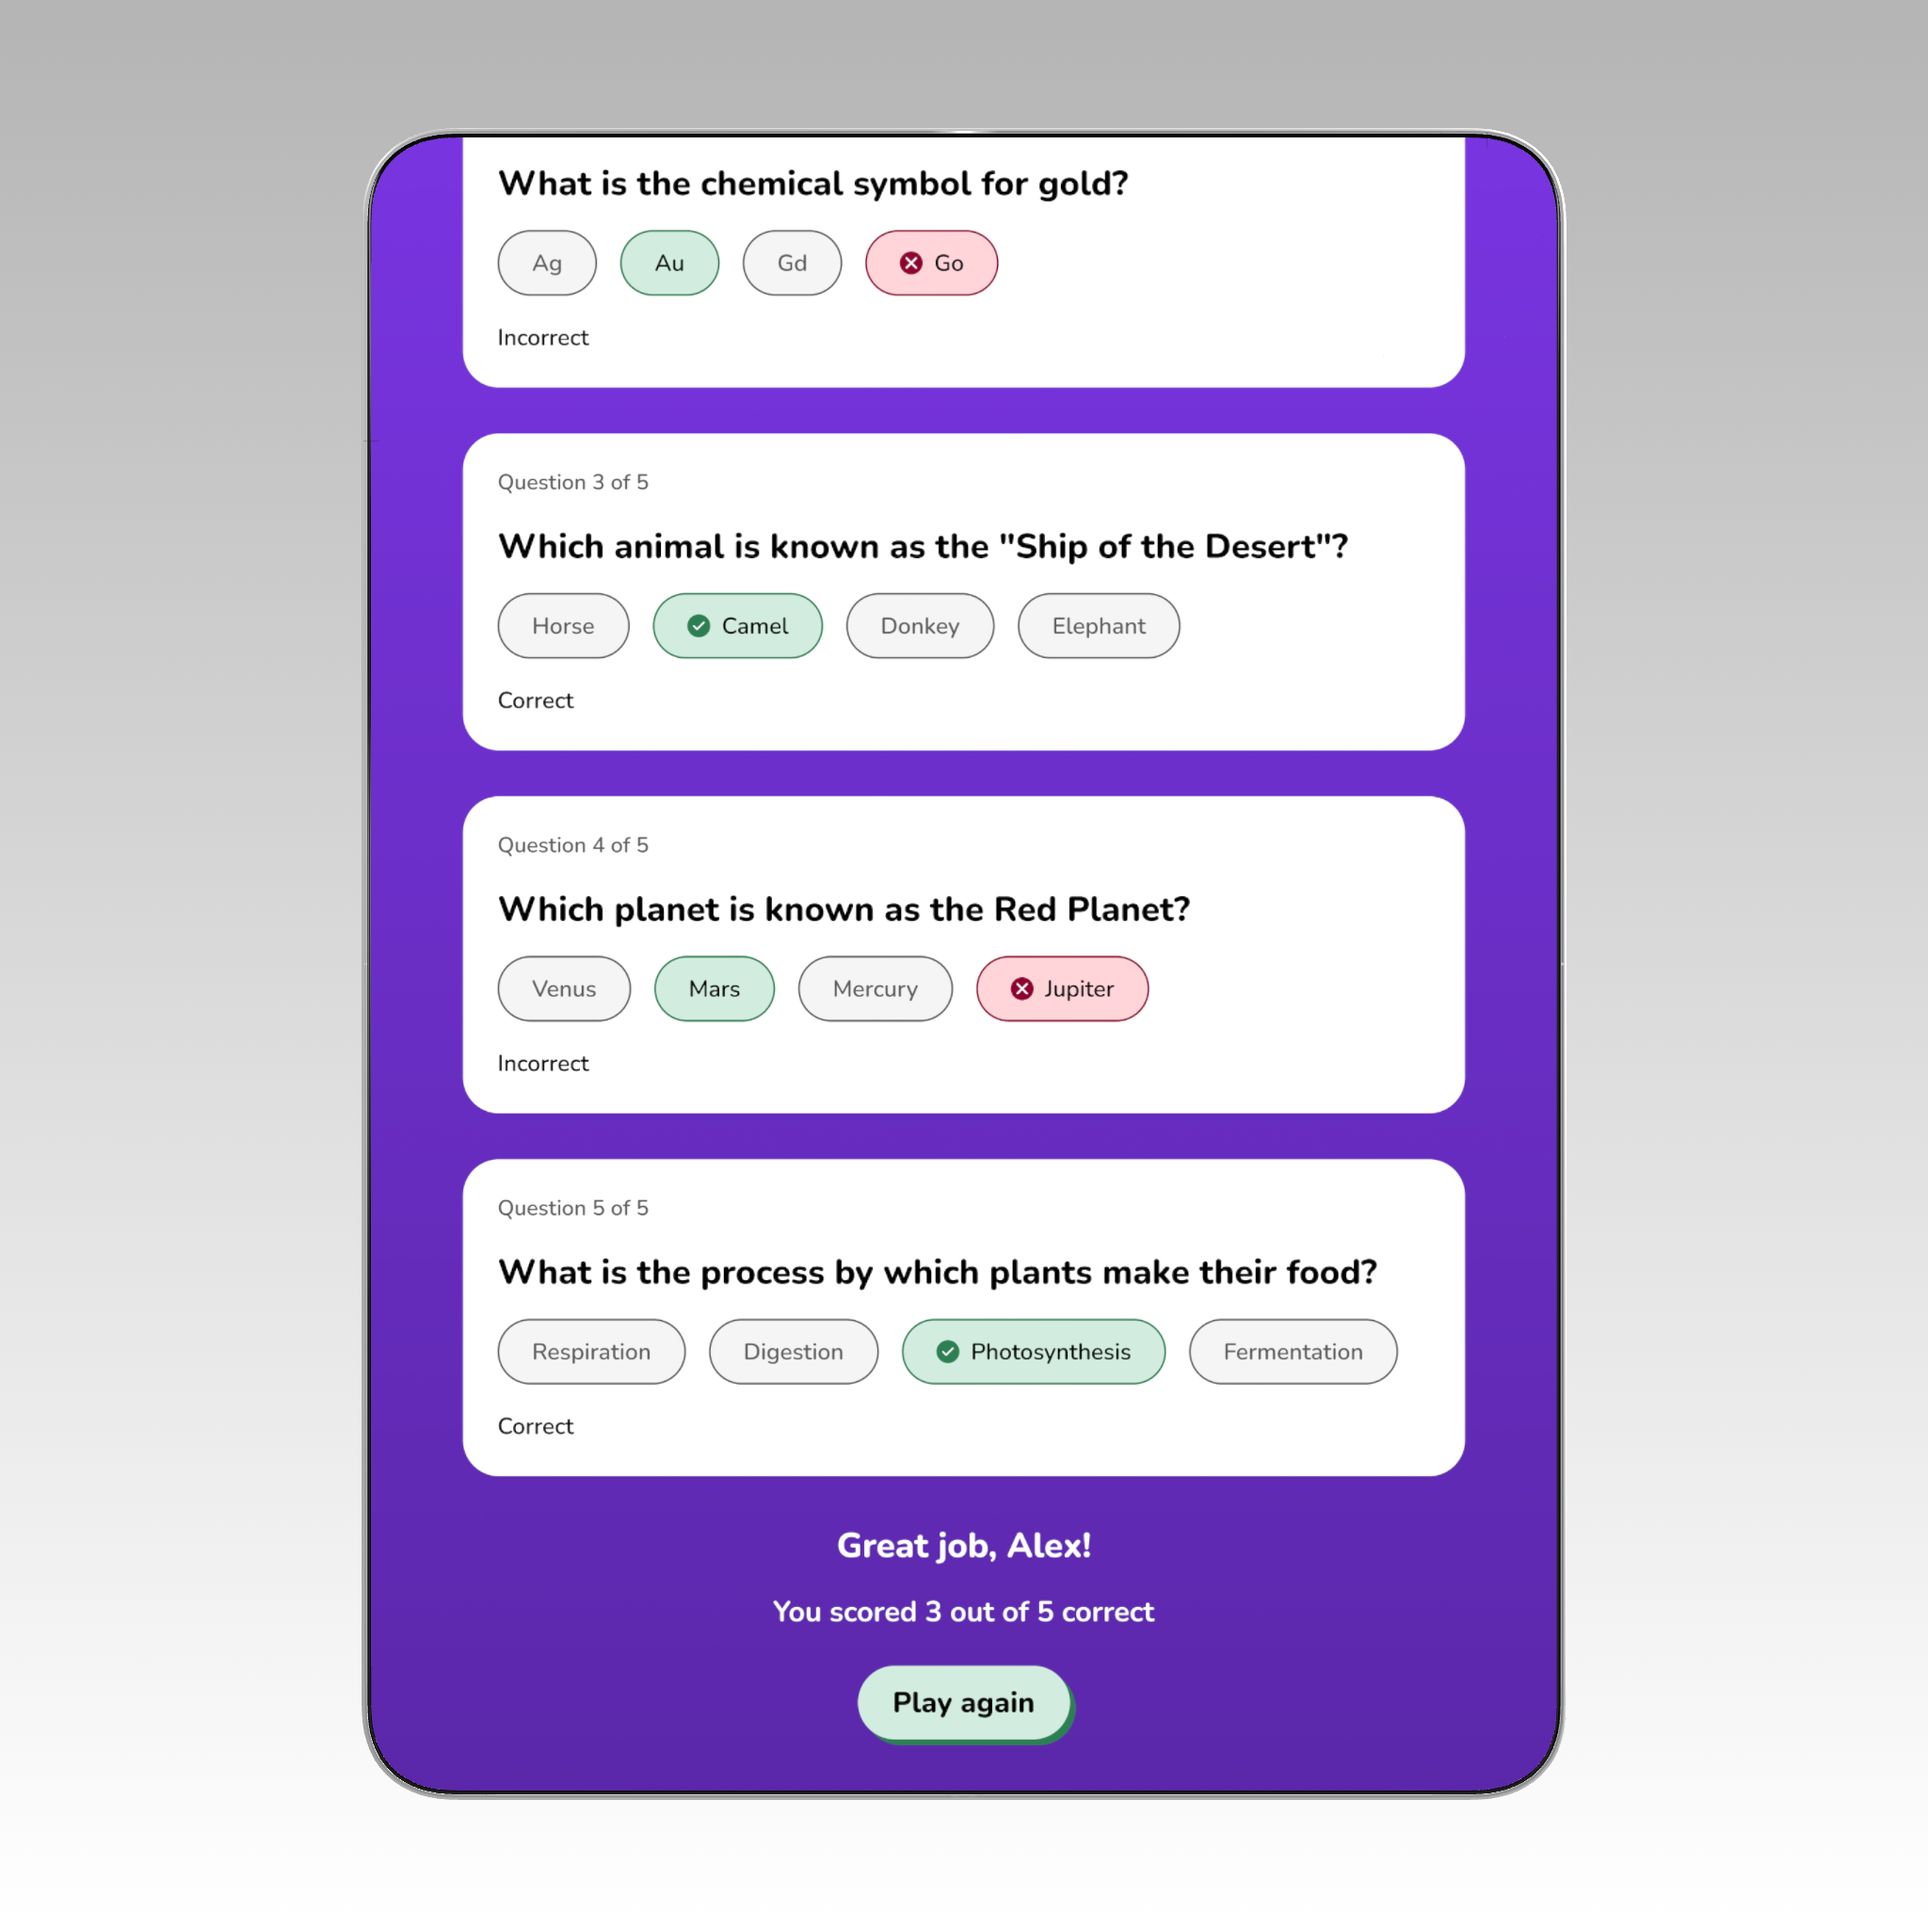
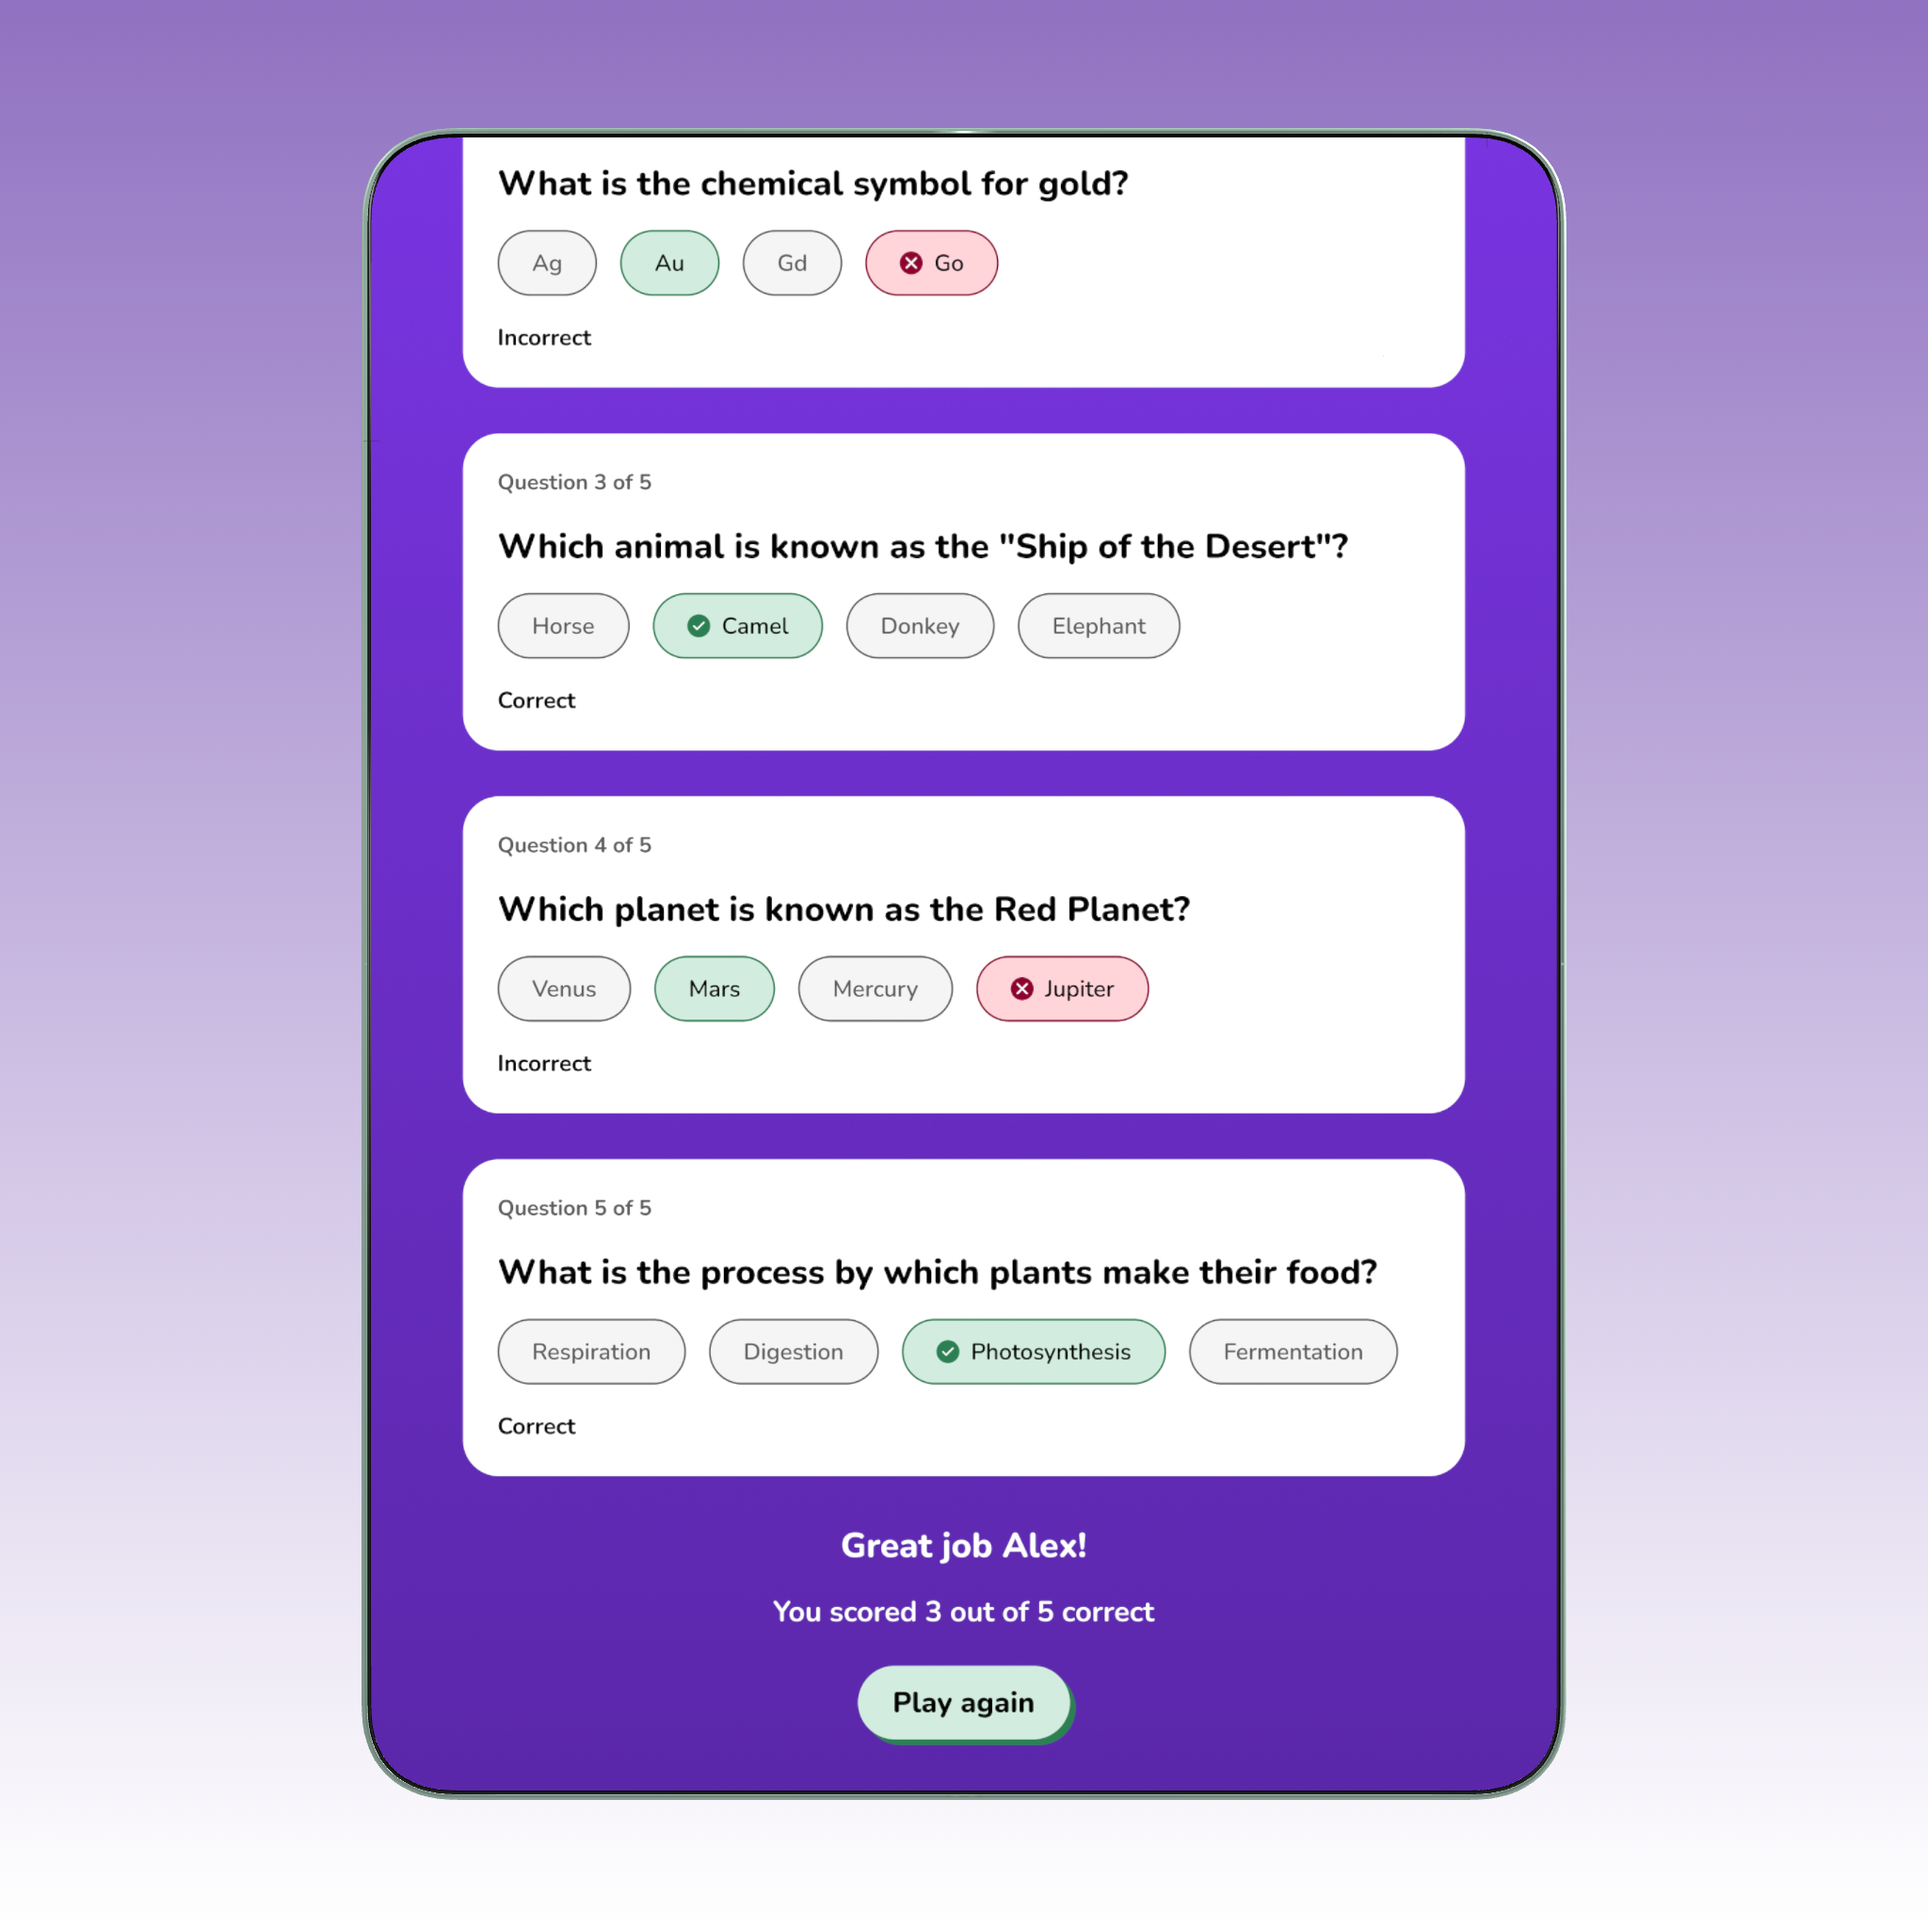
Changed README file

diff --git a/src/components/Header.jsx b/src/components/Header.jsx
@@ -1,11 +1,30 @@
+// Import the white back button arrow SVG image
 import BackButtonArrow from '../images/back-button-arrow-white.svg'
+
+// Import the white Quizlet logo SVG image
 import QuizletWhiteLogo from '../images/quizlet-logo-white.svg'
 
+// Define and export the Header component so it can be used in other files
 export default function Header() {
-    
+
     return (
+        // The <header> element wraps the top section of the page
+        // Note: In React, you should use "className" instead of "class"
         <header class="header">
-            <img src={BackButtonArrow} alt="White left pointing arrow" class="back-button"></img>
-            <img src={QuizletWhiteLogo} alt="White Quizlet logo with rocket" class="logo"></img>
-        </header>)
+            
+            {/* Render the back button arrow image */}
+            <img 
+                src={BackButtonArrow}                 
+                alt="White left pointing arrow"       
+                class="back-button"                  
+            />
+
+            {/* Render the Quizlet white logo image */}
+            <img 
+                src={QuizletWhiteLogo}               
+                alt="White Quizlet logo with rocket"
+                class="logo"
+            />
+        </header>
+    )
 }

diff --git a/src/css/App.css b/src/css/App.css
@@ -160,8 +160,9 @@ button:disabled {
   font-family: Nunito;
   font-size: 0.938em;
   font-style: normal;
-  font-weight: 600;
+  font-weight: 700;
   line-height: normal;
+  color: #5D5D5D;
 }
 
 /* Main question text */
@@ -197,7 +198,7 @@ button:disabled {
   font-family: Nunito;
   font-size: 1em;
   font-style: normal;
-  font-weight: 600;
+  font-weight: 700;
   line-height: normal;
 }
 

diff --git a/src/index.js b/src/index.js
@@ -1,7 +1,6 @@
 import React from 'react';
 import ReactDOM from 'react-dom/client';
 import { BrowserRouter } from 'react-router-dom';
-import './css/index.css';
 import App from './App';
 import reportWebVitals from './reportWebVitals';
 
